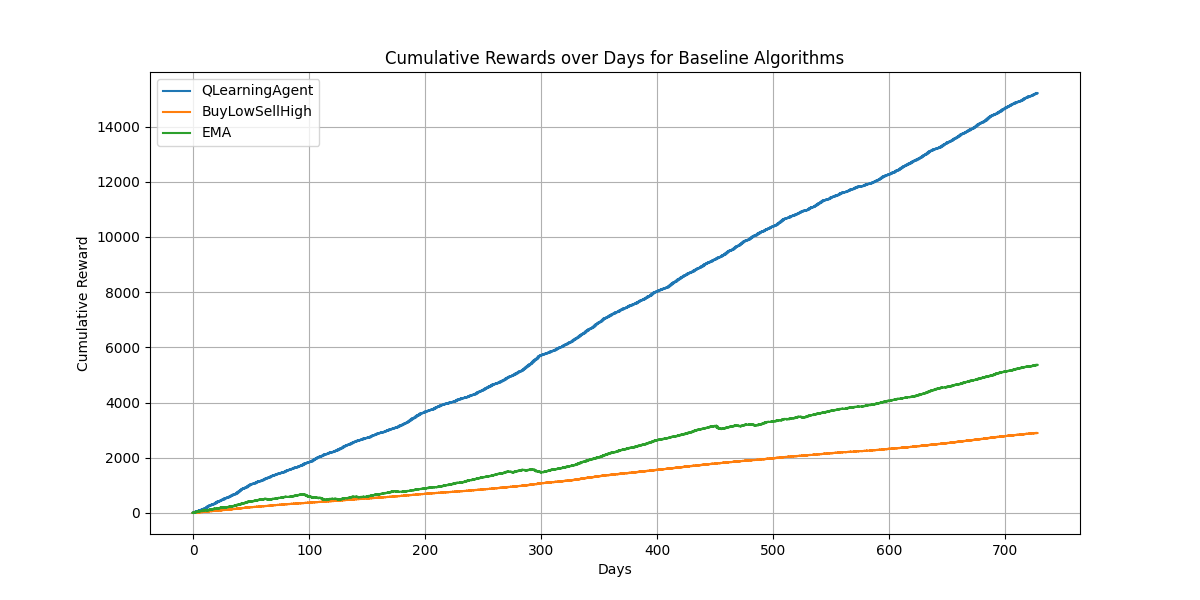
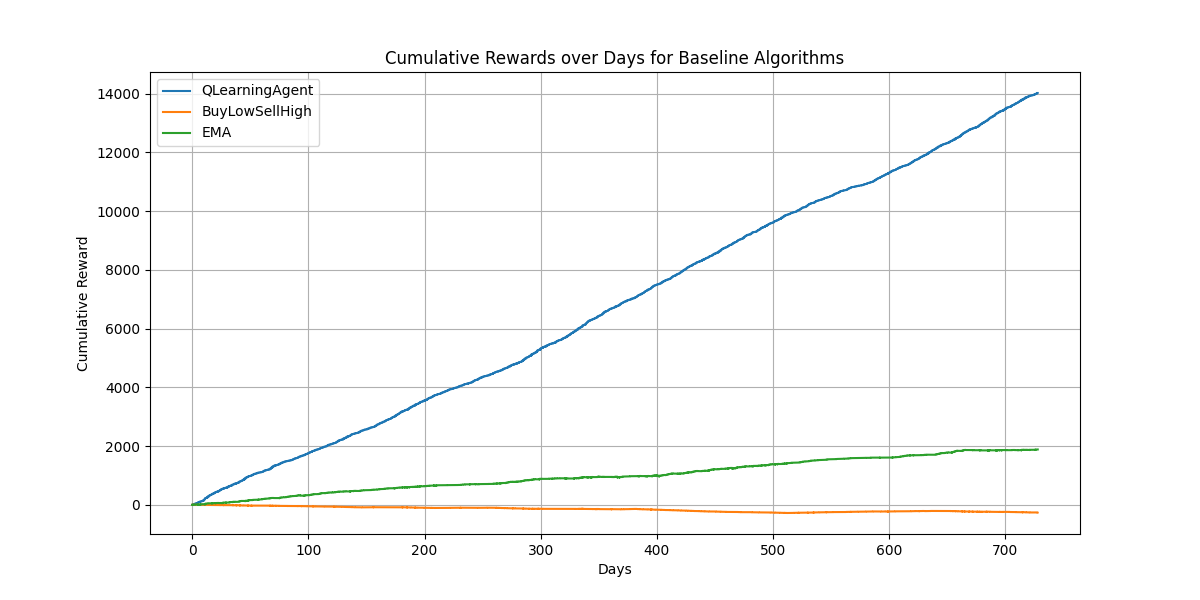
new performance

diff --git a/baseline.py b/baseline.py
@@ -113,7 +113,7 @@ def process_command(env: Env) -> Tuple[QLearningAgent or BuyLowSellHigh or EMA, 
     elif sys.argv[1] == 'ema':
         return ema(env), False, "EMA"
     else: 
-        return "all", True
+        return "all", True, "all"
         
 # Initialize the environment
 env = ElectricCarEnv()
@@ -126,17 +126,17 @@ env.data = pd.read_csv('data/validate_clean.csv')
 if test_agent == "all":
     # Validate Q-Learning Agent
     q_agent = qlearning()
-    q_performance, ql_log_env = validate_agent(env, q_agent, rl)
+    q_performance, ql_log_env = validate_agent(env, q_agent, True)
     print(f"Average reward on validation set for q learning: {q_performance}")
 
     # Validate BuyLowSellHigh Agent
     blsh_agent = buylowsellhigh(env)
-    blsh_performance, blsh_log_env = validate_agent(env, blsh_agent, rl)
+    blsh_performance, blsh_log_env = validate_agent(env, blsh_agent, False)
     print(f"Average reward on validation set for blsh: {blsh_performance}")
 
     # Validate EMA Agent
     ema_agent = ema(env)
-    ema_performance, ema_log_env = validate_agent(env, ema_agent)
+    ema_performance, ema_log_env = validate_agent(env, ema_agent, False)
     print(f"Average reward on validation set for ema: {ema_performance}")
 
     plot_revenue(ql_log_env, blsh_log_env, ema_log_env)
@@ -144,6 +144,6 @@ if test_agent == "all":
 else:
     test_performance, log_env = validate_agent(env, test_agent, rl)
 
-# Visualize the battery level
-visualize_bat(log_env, algorithm)
-print(f"Average reward on validation set: {test_performance}")
+    # Visualize the battery level
+    visualize_bat(log_env, algorithm)
+    print(f"Average reward on validation set: {test_performance}")
